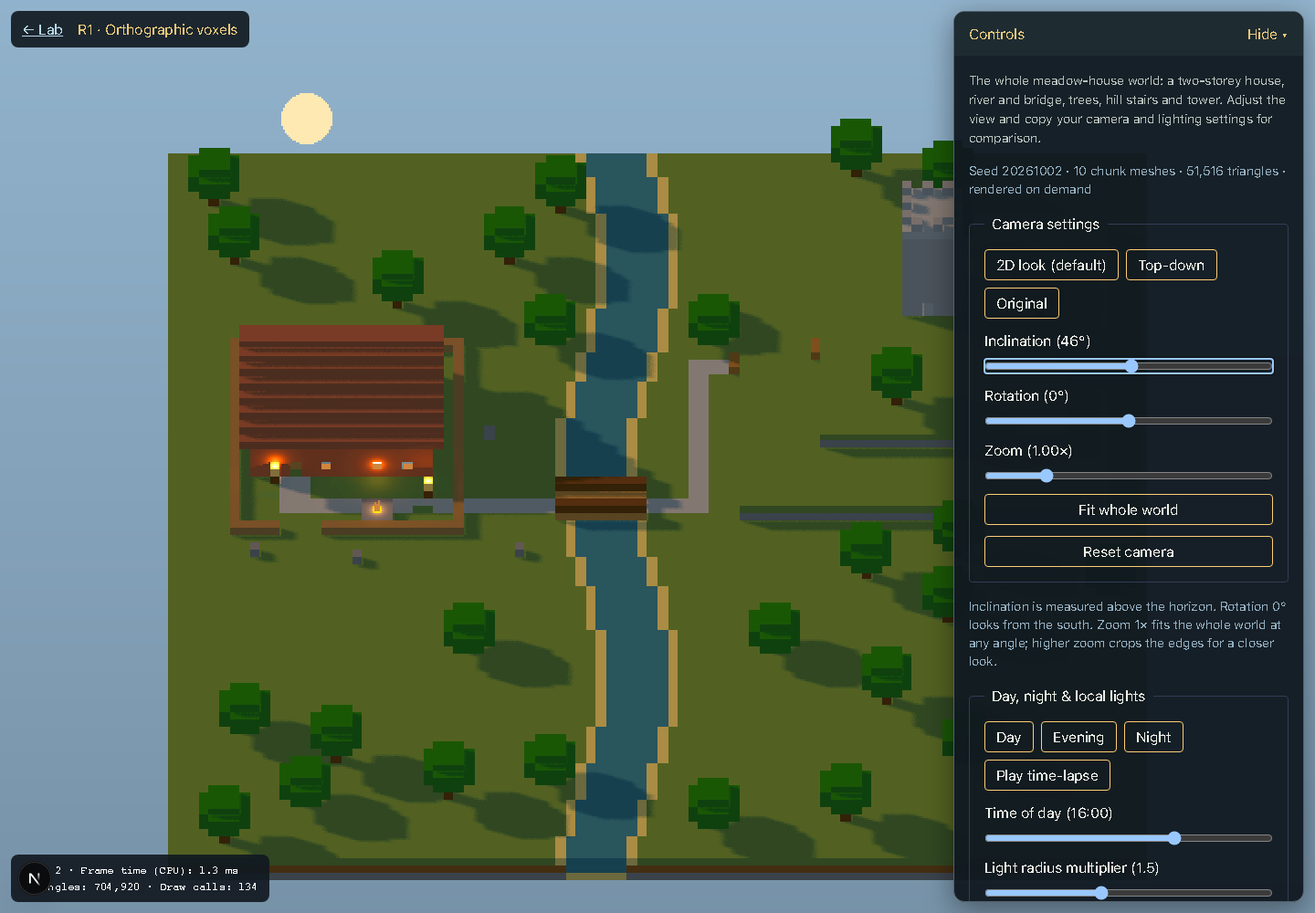
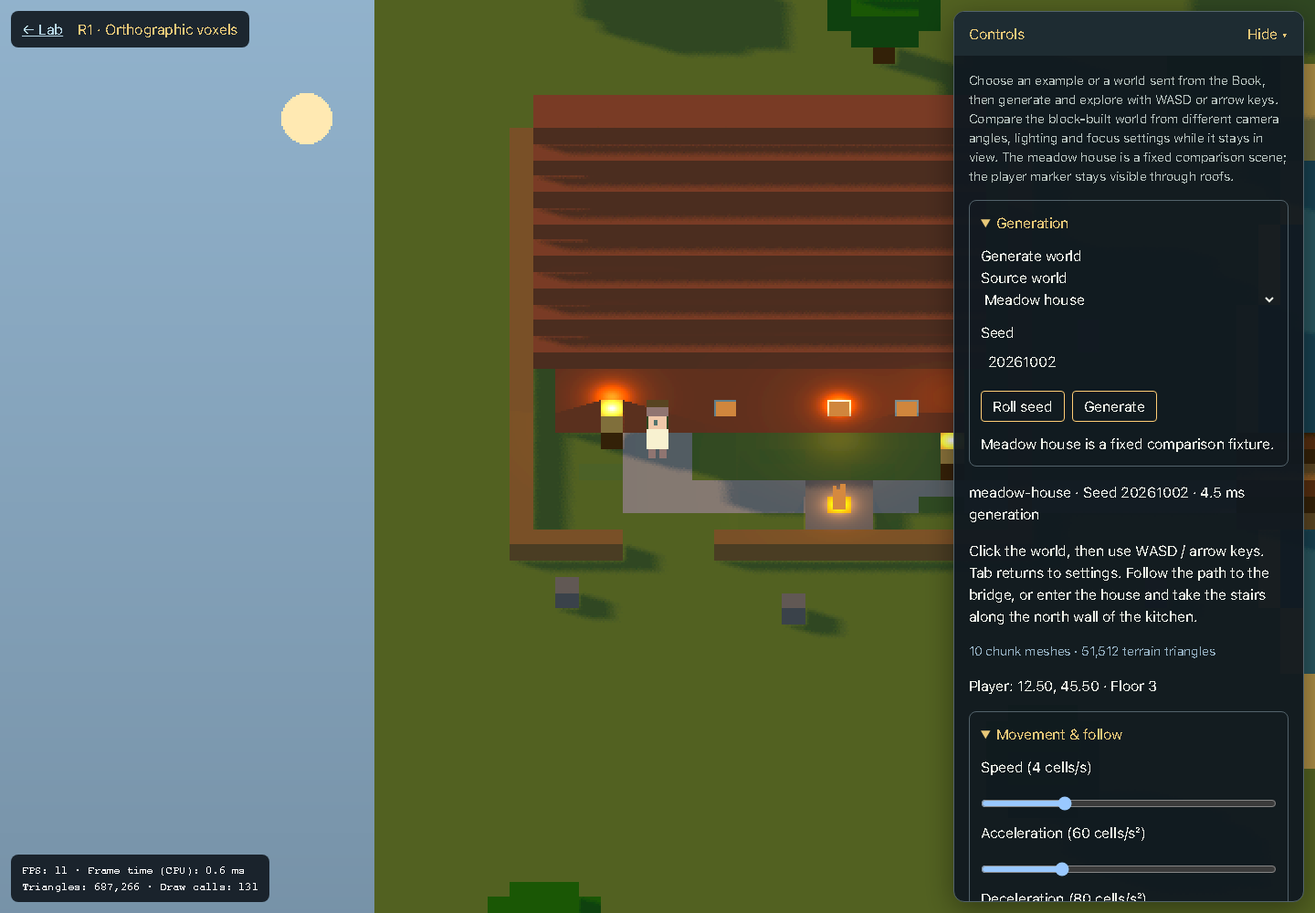
fix(lab): complete overlays across current renderer variants (evermore-1fo.23)
The overlay branch predated the default forest cottage renderer and later feedback requesting collapsible settings groups and plain-language introductions. Keep the forest cottage in the same viewport layout as generated R2 scenes, preserve the reference picture in its controls, and use shared actual-frame CPU diagnostics for both renderers. Native disclosure groups preserve settings and the mounted scene while scrolling or collapsing controls.

Clarify the introductions for movement, generation and image reconstruction, including the meaning of patches, ground anchors and cached vision heights. Add a repeatable headless browser check and refreshed desktop/mobile screenshots before and after panel scrolling. Browser checks cover panel limits, HUD separation, stable canvas mounts, slider extremes, keyboard movement and R1 time-lapse with controls hidden; image reconstruction reports zero FPS when idle. Package typecheck and lint pass; full formula gates follow before submission.

diff --git a/apps/www/app/lab/r1-voxel/voxel-experiment.tsx b/apps/www/app/lab/r1-voxel/voxel-experiment.tsx
@@ -2,7 +2,7 @@
 
 import { DEFAULT_MOVEMENT, createMovement, createMovementClock, stepMovement } from "@evermore/core";
 import { MEADOW_HOUSE_SEED, WORLD_EXAMPLES, generateWorld, deriveShadowWorld, findInfluenceOrigin, influenceAt } from "@evermore/world";
-import { LabViewport } from "../../../components/lab/lab-viewport";
+import { ControlGroup, LabViewport } from "../../../components/lab/lab-viewport";
 import { RenderStats, useRenderStats } from "../../../components/lab/render-stats";
 import { useEffect, useRef, useState } from "react";
 import { AmbientLight, Box3, Color, DirectionalLight, Group, Mesh, MeshLambertMaterial, OrthographicCamera, Scene, WebGLRenderer, WebGLRenderTarget, NearestFilter, DepthTexture, AlwaysDepth, ShaderMaterial, PlaneGeometry, PCFShadowMap, Vector3, CanvasTexture, Sprite, SpriteMaterial } from "three";
@@ -347,44 +347,39 @@ export default function VoxelExperiment() {
   const json = JSON.stringify({ experiment: "r1-voxel", world: worldName, shadow, heatmap, seed: worldSeed, camera: settings, look, lighting, movement, cameraFollow: follow }, null, 2);
   return (
     <LabViewport title="R1 · Orthographic voxels" description="Choose an example or a world sent from the Book, then generate and explore with WASD or arrow keys. Compare the block-built world from different camera angles, lighting and focus settings while it stays in view. The meadow house is a fixed comparison scene; the player marker stays visible through roofs." controls={<>
-        {ready && <GenerationPanel key={JSON.stringify(handoff)} initialIndex={worldIndex} initialSeed={worldSeed} handoff={handoff} onGenerate={(index, seed) => {
+        {ready && <ControlGroup title="Generation"><GenerationPanel key={JSON.stringify(handoff)} initialIndex={worldIndex} initialSeed={worldSeed} handoff={handoff} onGenerate={(index, seed) => {
           keys.current.clear();
           setSelectedWorld((previous) => ({ index, seed, revision: (previous?.revision ?? 0) + 1 }));
-        }} />}
+        }} /></ControlGroup>}
         <p aria-label="Active generation">{worldName} · Seed {worldSeed} · {generationMs.toFixed(1)} ms generation</p>
         <p id="voxel-controls">Click the world, then use WASD / arrow keys. Tab returns to settings. Follow the path to the bridge, or enter the house and take the stairs along the north wall of the kitchen.</p>
       <p className="text-sm text-mist">{stats.chunks} chunk meshes · {stats.triangles.toLocaleString()} terrain triangles</p>
         <p aria-label="Player position">Player: {playerPosition.x.toFixed(2)}, {playerPosition.y.toFixed(2)} · Floor {playerPosition.z}</p>
-        <fieldset className="min-w-0 grid gap-3 border border-dusk p-3">
-          <legend>Movement & follow</legend>
+        <ControlGroup title="Movement & follow">
           <MovementSettings value={movement} onChange={setMovement} />
           <label>Camera follow ({follow} /s)<input aria-label="Camera follow" className="w-full max-w-full" type="range" min={1} max={30} step={1} value={follow} onChange={(event) => setFollow(Number(event.target.value))} /></label>
           <button type="button" className="rounded border border-gold px-3 py-1" onClick={() => resetPlayer.current?.()}>Reset player</button>
-        </fieldset>
-        <fieldset className="min-w-0 grid gap-3 border border-dusk p-3">
-          <legend>Depth of field</legend>
+        </ControlGroup>
+        <ControlGroup title="Depth of field">
           <label><input type="checkbox" checked={look.depthOfField} onChange={(event) => setLook({ ...look, depthOfField: event.target.checked })} /> Depth of field</label>
           <label>Blur strength ({look.blurStrength} render pixels)<input aria-label="Blur strength" className="w-full max-w-full" type="range" min={0} max={6} step={1} value={look.blurStrength} onChange={(event) => setLook({ ...look, blurStrength: Number(event.target.value) })} /></label>
           <label>Focus range (±{look.focusRange} world cells)<input aria-label="Focus range" className="w-full max-w-full" type="range" min={0.5} max={30} step={0.5} value={look.focusRange} onChange={(event) => setLook({ ...look, focusRange: Number(event.target.value) })} /></label>
           <p>The sharp depth band follows the player. Nearer and farther terrain softens in whole render-pixel steps; try a wide view for a miniature effect. Top-down views separate heights rather than north and south.</p>
-        </fieldset>
-        <fieldset className="min-w-0 flex flex-wrap gap-4 border border-dusk p-3">
-          <legend>Firelight flicker</legend>
+        </ControlGroup>
+        <ControlGroup title="Firelight flicker">
           <label><input type="checkbox" checked={lighting.flicker} onChange={(event) => setLighting({ ...lighting, flicker: event.target.checked })} /> Flicker</label>
           <label>Strength ({lighting.flickerStrength.toFixed(2)})<input aria-label="Flicker strength" type="range" min={0} max={0.4} step={0.01} value={lighting.flickerStrength} onChange={(event) => setLighting({ ...lighting, flickerStrength: Number(event.target.value) })} /></label>
           <label>Speed ({lighting.flickerSpeed.toFixed(1)}×)<input aria-label="Flicker speed" type="range" min={0} max={6} step={0.1} value={lighting.flickerSpeed} onChange={(event) => setLighting({ ...lighting, flickerSpeed: Number(event.target.value) })} /></label>
           <span className="text-sm">Fire only · lanterns and windows stay steady</span>
-        </fieldset>
-        <fieldset className="min-w-0 flex flex-wrap items-center gap-4 border border-dusk p-3">
-          <legend>World & danger</legend>
+        </ControlGroup>
+        <ControlGroup title="World & danger">
           {([false, true] as const).map((value) => <button key={String(value)} type="button" className="rounded border border-gold px-3 py-1" aria-pressed={shadow === value} onClick={() => setShadow(value)}>{value ? "Shadow" : "Normal"}</button>)}
           <label><input type="checkbox" checked={heatmap} onChange={(event) => setHeatmap(event.target.checked)} /> Danger heatmap</label>
           <p className="text-sm">Blue: low danger · Red: high danger. Influence peaks at the first bed (or spawn), fading with horizontal distance.</p>
-        </fieldset>
+        </ControlGroup>
         {importError.length > 0 && <p role="alert">{importError}</p>}
         {error !== "" && <p role="alert">{error}</p>}
-        <fieldset className="min-w-0 flex flex-wrap gap-5 rounded border border-dusk p-4">
-          <legend className="px-2">Camera settings</legend>
+        <ControlGroup title="Camera settings">
           <div className="flex w-full flex-wrap gap-2" role="group" aria-label="Camera presets">
             {CAMERA_PRESETS.map((preset, index) => (
               <button key={preset.label} type="button"
@@ -406,10 +401,9 @@ export default function VoxelExperiment() {
           </label>
           <button className="rounded border border-gold px-3 py-1" type="button" onClick={() => setSettings({ ...settings, zoom: 1 })}>Wide view</button>
           <button className="rounded border border-gold px-3 py-1" type="button" onClick={() => setSettings(PLAYER_CAMERA)}>Reset camera</button>
-        </fieldset>
+        </ControlGroup>
         <p className="text-sm text-mist">Inclination is measured above the horizon. Rotation 0° looks from the south. Zoom 1× uses the world-sized frame around the player; higher zoom gives a closer look.</p>
-        <fieldset className="min-w-0 flex flex-wrap gap-5 rounded border border-dusk p-4">
-          <legend className="px-2">Day, night & local lights</legend>
+        <ControlGroup title="Day, night & local lights">
           <div className="flex w-full flex-wrap gap-2" role="group" aria-label="Time presets">
             {([["Day", 12], ["Evening", 18], ["Night", 0]] as const).map(([label, hour]) => (
               <button key={label} type="button" className="rounded border border-gold px-3 py-1" aria-pressed={lighting.hour === hour && !lighting.play} onClick={() => setLighting({ ...lighting, hour, play: false })}>{label}</button>
@@ -428,10 +422,9 @@ export default function VoxelExperiment() {
           ))}
           <label><input type="checkbox" checked={lighting.localLights} onChange={(event) => setLighting({ ...lighting, localLights: event.target.checked })} /> Local lights</label>
           <button type="button" className="rounded border border-gold px-3 py-1" onClick={() => setLighting(DEFAULT_LIGHTING)}>Reset lighting</button>
-        </fieldset>
+        </ControlGroup>
         <p className="text-sm text-mist">Sunrise at 06:00, sunset at 18:00. Sun and moon move in opposite arcs, changing shadow direction and length. At night, compare warm windows, the two lanterns and the garden fire against cool moonlight. The indoor hearth stays behind the roof in this exterior view.</p>
-        <fieldset className="min-w-0 flex flex-wrap gap-5 rounded border border-dusk p-4">
-          <legend className="px-2">Pixel look & lighting</legend>
+        <ControlGroup title="Pixel look & lighting">
           {([
             ["resolution", "Maximum render width", 320, 1280, 40],
             ["pixelSize", "Minimum pixel size", 1, 6, 1],
@@ -445,7 +438,7 @@ export default function VoxelExperiment() {
           <label><input type="checkbox" checked={look.shadows} onChange={(event) => setLook({ ...look, shadows: event.target.checked })} /> Cast shadows</label>
           <label><input type="checkbox" checked={look.palette} onChange={(event) => setLook({ ...look, palette: event.target.checked })} /> Tonal palette</label>
           <button type="button" className="rounded border border-gold px-3 py-1" onClick={() => setLook(DEFAULT_LOOK)}>Reset look</button>
-        </fieldset>
+        </ControlGroup>
         <p className="text-sm text-mist">The world renders to a low-resolution texture and scales up with nearest filtering. Maximum width and minimum pixel size work together; the finer default keeps roof and foliage detail visible. The optional palette reduces colour tones after lighting.</p>
         <details><summary>Settings JSON</summary>
           <textarea readOnly value={json} rows={12} aria-label="Settings JSON" className="mt-3 w-full rounded bg-black/30 p-3 font-mono text-sm" />

diff --git a/apps/www/app/lab/r2-tilemap/forest-cottage.tsx b/apps/www/app/lab/r2-tilemap/forest-cottage.tsx
@@ -6,6 +6,8 @@ import { FOREST_COTTAGE_ART as art, cottageOccludes, createForestCottageWorld } 
 import { useMovement } from '../../../components/lab/use-movement';
 import { movementFromKeys } from '../../../components/lab/keyboard';
 import { movementSprite } from '../../../components/lab/movement-sprite';
+import { ControlGroup, LabViewport } from '../../../components/lab/lab-viewport';
+import { RenderStats, useRenderStats } from '../../../components/lab/render-stats';
 import { movementFloor } from './tilemap-model';
 
 type ArtLayer = 'ground' | 'decoration' | 'objects' | 'facade' | 'overhead' | 'light';
@@ -13,6 +15,7 @@ const initialLayers: Record<ArtLayer, boolean> = { ground:true, decoration:true,
 const reference = '/moodboards/02-eigene-welt/images/it2-waldhuette-tag.jpg';
 
 export default function ForestCottage({ onSceneChange }: { onSceneChange: (scene: string) => void }) {
+  const { stats: performanceStats, recordFrame } = useRenderStats();
   const surface = useRef<HTMLDivElement>(null);
   const canvas = useRef<HTMLCanvasElement>(null);
   const keys = useMovement(surface);
@@ -23,7 +26,7 @@ export default function ForestCottage({ onSceneChange }: { onSceneChange: (scene
   const [layers, setLayers] = useState(initialLayers);
   const [reset, setReset] = useState(0);
   const [error, setError] = useState('');
-  const [stats, setStats] = useState({ fps:0, ms:0, x:21.5, y:16.5, faded:0 });
+  const [stats, setStats] = useState({ x:21.5, y:16.5, faded:0 });
   const [copied, setCopied] = useState('');
   const options = useRef({ night, grid, collision, fade, layers });
   useEffect(() => { options.current = { night, grid, collision, fade, layers }; }, [night,grid,collision,fade,layers]);
@@ -41,10 +44,11 @@ export default function ForestCottage({ onSceneChange }: { onSceneChange: (scene
       const world=createForestCottageWorld();
       const motion=createMovement({ x:world.spawn.x+0.5, y:world.spawn.y+0.5, z:world.spawn.z });
       const advance=createMovementClock();
-      let previous=performance.now(), sample=0, frames=0;
+      let previous=performance.now(), sample=0;
       ctx.imageSmoothingEnabled=false;
       function draw(now:number) {
         if(cancelled || !ctx) return;
+        const started = performance.now();
         const elapsed=(now-previous)/1000; previous=now;
         const dt=Math.min(elapsed,0.05);
         advance(dt,()=>stepMovement(motion,movementFromKeys(keys.current),DEFAULT_MOVEMENT,p=>movementFloor(world,p)));
@@ -91,8 +95,9 @@ export default function ForestCottage({ onSceneChange }: { onSceneChange: (scene
           for(let ty=0;ty<=384;ty+=16){ctx.moveTo(0,ty+0.5);ctx.lineTo(688,ty+0.5);}ctx.stroke();
         }
         if(surface.current) { surface.current.dataset.playerX=String(motion.x);surface.current.dataset.playerY=String(motion.y);surface.current.dataset.faded=String(faded); }
-        sample+=elapsed;frames++;
-        if(sample>=0.25) {setStats({fps:frames/sample,ms:sample/frames*1000,x:motion.x,y:motion.y,faded});sample=0;frames=0;}
+        recordFrame(performance.now() - started);
+        sample+=elapsed;
+        if(sample>=0.25) {setStats({x:motion.x,y:motion.y,faded});sample=0;}
         frame=requestAnimationFrame(draw);
       }
       frame=requestAnimationFrame(draw);
@@ -100,37 +105,25 @@ export default function ForestCottage({ onSceneChange }: { onSceneChange: (scene
     setError('');
     void start().catch(cause=>{if(!cancelled) setError(cause instanceof Error?cause.message:'The cottage could not load.');});
     return()=>{cancelled=true;cancelAnimationFrame(frame);};
-  },[keys,reset]);
+  },[keys,reset,recordFrame]);
 
   const settings=JSON.stringify({scene:'moodboard',night,grid,collision,fade,layers},null,2);
-  return <div className="grid gap-4">
-    <section aria-label="Forest cottage comparison" className="sticky top-2 z-10 rounded border border-dusk bg-night p-3">
-      <div className="mb-3 flex flex-wrap items-center gap-3 text-sm">
-        <label>Scene <select aria-label="Scene" value="moodboard" onChange={event=>onSceneChange(event.target.value)} className="rounded bg-night p-1"><option value="moodboard">Moodboard: Forest cottage</option><option value="generator">G1 generated world</option><option value="village">G3 library village</option><option value="meadow">Meadow house</option></select></label>
-        <output aria-label="Cottage diagnostics" className="font-mono text-xs text-mist">{stats.fps.toFixed(0)} FPS · {stats.ms.toFixed(1)} ms · ({stats.x.toFixed(1)}, {stats.y.toFixed(1)}) · {stats.faded} faded</output>
-      </div>
-      <div className="grid grid-cols-2 gap-3">
-        <figure><figcaption className="mb-1 text-xs text-mist">Moodboard · original</figcaption>
-          {/* The original reference must remain directly comparable at its native aspect ratio. */}
-          {/* eslint-disable-next-line @next/next/no-img-element */}
-          <img src={reference} alt="Forest cottage moodboard with a thatched roof, vegetable garden and river bridge" width={1376} height={768} className="w-full" />
-        </figure>
-        <figure><figcaption className="mb-1 text-xs text-mist">R2 · 43 × 24 tiles · WASD / arrows</figcaption>
-          <div ref={surface} tabIndex={0} role="application" aria-label="Forest cottage movement" className="focus:outline-2 focus:outline-gold">
-            <canvas ref={canvas} width={688} height={384} className="block w-full [image-rendering:pixelated]" />
-          </div>
-        </figure>
-      </div>
-      <fieldset aria-label="Cottage controls" className="mt-3 flex flex-wrap items-center gap-x-4 gap-y-2 text-xs">
-        <legend className="sr-only">Cottage controls</legend>
+  return <LabViewport title="R2 · Layered tilemap" description="Walk through a forest cottage built from small terrain tiles and separate roof and tree pictures. Click the scene and move with WASD or arrow keys; watch the roof and treetops fade above the character. Compare it with the original picture in the controls, then try night lighting or hide layers to see how it is put together. This scene is hand-built, so its hidden ground and cut-out edges are still approximate." controls={<>
+    <ControlGroup title="Scene & reference">
+      <label>Scene <select aria-label="Scene" value="moodboard" onChange={event=>onSceneChange(event.target.value)} className="rounded bg-night p-1"><option value="moodboard">Moodboard: Forest cottage</option><option value="generator">G1 generated world</option><option value="village">G3 library village</option><option value="meadow">Meadow house</option></select></label>
+      <figure><figcaption className="mb-1 text-xs text-mist">Moodboard · original</figcaption>
+        {/* eslint-disable-next-line @next/next/no-img-element */}
+        <img src={reference} alt="Forest cottage moodboard with a thatched roof, vegetable garden and river bridge" width={1376} height={768} className="w-full" />
+      </figure>
+    </ControlGroup>
+    <ControlGroup title="Cottage controls">
         <label className="flex items-center gap-2">Day / night <input aria-label="Night amount" type="range" min={0} max={1} step={0.05} value={night} onChange={event=>setNight(Number(event.target.value))} className="w-24" /></label>
         <label><input type="checkbox" checked={grid} onChange={event=>setGrid(event.target.checked)} /> Tile grid</label>
         <label><input type="checkbox" checked={collision} onChange={event=>setCollision(event.target.checked)} /> Collision</label>
         <label><input type="checkbox" checked={fade} onChange={event=>setFade(event.target.checked)} /> Fade occluders</label>
         {(Object.keys(layers) as ArtLayer[]).map(layer=><label key={layer}><input type="checkbox" checked={layers[layer]} onChange={event=>setLayers({...layers,[layer]:event.target.checked})} /> {layer}</label>)}
         <button onClick={()=>setReset(value=>value+1)} className="rounded border border-gold px-2 py-1">Reset player</button>
-      </fieldset>
-    </section>
+    </ControlGroup>
     {error !== '' && <p role="alert">{error}</p>}
     <p className="text-sm text-mist">Walk north through the door and south across the bridge. The roof and tree crowns fade over your character; only trunks, walls, the garden and water block movement. Toggle layers to see the terrain beneath them. The evening slider adds warm lantern light to the extracted daytime art.</p>
     <p className="text-sm text-mist">{art.ground.length} ground cells reuse {art.tileCount} extracted 16 px tiles; {art.sprites.length} separate sprites carry the roof, trees, facade and details. This is an authored reconstruction with collision data, not a generated world. Mask edges and hidden ground are approximate; extracting reusable terrain borders is a next step. No model calls were needed.</p>
@@ -138,5 +131,11 @@ export default function ForestCottage({ onSceneChange }: { onSceneChange: (scene
       if(typeof navigator.clipboard === 'undefined'){setCopied('Select and copy the JSON above.');return;}
       void navigator.clipboard.writeText(settings).then(()=>setCopied('Copied settings.'),()=>setCopied('Select and copy the JSON above.'));
     }} className="rounded border border-gold px-2 py-1">Copy settings</button><p role="status">{copied}</p></details>
-  </div>;
+  </>}>
+    <div ref={surface} tabIndex={0} role="application" aria-label="Forest cottage movement" className="h-full w-full focus:outline-2 focus:outline-gold">
+      <canvas ref={canvas} width={688} height={384} className="block h-full w-full [image-rendering:pixelated]" />
+    </div>
+    <output aria-label="Cottage diagnostics" className="pointer-events-none absolute left-3 top-18 rounded bg-black/80 px-3 py-2 font-mono text-xs text-white">Position: ({stats.x.toFixed(1)}, {stats.y.toFixed(1)}) · {stats.faded} faded</output>
+    <RenderStats stats={performanceStats} />
+  </LabViewport>;
 }

diff --git a/apps/www/app/lab/r2-tilemap/tilemap-experiment.tsx b/apps/www/app/lab/r2-tilemap/tilemap-experiment.tsx
@@ -6,7 +6,7 @@ import { movementSprite } from "../../../components/lab/movement-sprite";
 import { WORLD_EXAMPLES, generateWorld, createMeadowHouseWorld, getMaterial, MEADOW_HOUSE_LIGHTS, generateObjectVillage, DEFAULT_VILLAGE } from "@evermore/world";
 import { Application, Container, Graphics, Assets, Sprite, type Texture } from "pixi.js";
 import { UPDATE_PRIORITY } from "pixi.js";
-import { LabViewport } from "../../../components/lab/lab-viewport";
+import { ControlGroup, LabViewport } from "../../../components/lab/lab-viewport";
 import { RenderStats, useRenderStats } from "../../../components/lab/render-stats";
 import { useEffect, useRef, useState } from "react";
 import { DebugOverlay, type DebugSnapshot } from "../../../components/lab/debug-overlay";
@@ -234,8 +234,7 @@ function GeneratedTilemap({ sceneMode, setSceneMode, handoffState }: {
   const settings = JSON.stringify({ scene: sceneMode, seed: imported?.seed ?? seed, villageOptions, movement, cutaway, fade, layers, footprints }, null, 2);
   return (
     <LabViewport title="R2 · Layered tilemap" description="Explore a world made from small terrain tiles and separate objects. Move with WASD or arrow keys and watch roofs and tree crowns fade above the player. Choose a generated world, a library village or the meadow house to compare layouts and layers." controls={<>
-        <fieldset className="grid gap-3 rounded border border-dusk p-3">
-          <legend>World controls</legend>
+        <ControlGroup title="World controls">
           <label className="block">Scene<select aria-label="Scene" value={sceneMode} onChange={event => setSceneMode(event.target.value)} className="block w-full bg-night p-1"><option value="generator">G1 generated world</option><option value="moodboard">Moodboard: Forest cottage</option><option value="village">G3 library village</option><option value="meadow">Meadow house</option></select></label>
           {sceneMode === "generator" && <>
             <label className="mt-2 block">Specification<select aria-label="World specification" value={example} onChange={event => setExample(event.target.value)} className="block w-full bg-night p-1">
@@ -255,18 +254,17 @@ function GeneratedTilemap({ sceneMode, setSceneMode, handoffState }: {
           </>}
           <label className="mt-2 block"><input type="checkbox" checked={fade} onChange={event => setFade(event.target.checked)} /> Fade occluders</label>
           <button type="button" onClick={() => setReset(reset + 1)} className="mt-2 rounded border border-gold px-2 py-1">Reset player</button>
-        </fieldset>
+        </ControlGroup>
       {importError.length > 0 && <p role="alert">{importError}</p>}
       {error !== "" && <p role="alert">{error}</p>}
       <p aria-live="polite">Location: {room} · {generation}</p>
-      <fieldset className="flex flex-wrap gap-5 rounded border border-dusk p-4">
-        <legend className="px-2">Renderer settings</legend>
+      <ControlGroup title="Renderer settings">
         <MovementSettings value={movement} onChange={setMovement} />
         <label><input type="checkbox" checked={cutaway} onChange={(event) => setCutaway(event.target.checked)} /> Building cutaway</label>
         <label><input type="checkbox" checked={fade} onChange={(event) => setFade(event.target.checked)} /> Fade occluders</label>
         {(["ground", "objects", "overhead"] as const).map((layer) => <label key={layer}><input type="checkbox" checked={layers[layer]} onChange={(event) => setLayers({ ...layers, [layer]: event.target.checked })} /> {layer}</label>)}
         <button type="button" onClick={() => setReset(reset + 1)} className="rounded border border-gold px-3 py-1">Reset to spawn</button>
-      </fieldset>
+      </ControlGroup>
       {imported && <details><summary>Generated world specification · {imported.specification.name}</summary>
         <p className="mt-2 text-sm text-mist">{imported.specification.mood} · {imported.specification.climate} · {imported.specification.timeOfDay}. Terrain, water and buildings come from G1; palette and mood remain metadata in this renderer.</p>
         <textarea readOnly value={JSON.stringify(imported, null, 2)} rows={12} aria-label="Generated world specification JSON" className="mt-3 w-full rounded bg-black/30 p-3 font-mono text-sm" />

diff --git a/apps/www/app/lab/g1-generator/generator-experiment.tsx b/apps/www/app/lab/g1-generator/generator-experiment.tsx
@@ -1,6 +1,6 @@
 "use client";
 import { generateWorld, getMaterial, WORLD_EXAMPLES, type World, type WorldSpecification } from "@evermore/world";
-import { LabViewport } from "../../../components/lab/lab-viewport";
+import { ControlGroup, LabViewport } from "../../../components/lab/lab-viewport";
 import { useEffect, useRef, useState } from "react";
 import { useWorldHandoff } from "../../../components/lab/use-world-handoff";
 import { parseWorldHandoff, saveWorldHandoff } from "../../../lib/world-handoff";
@@ -55,16 +55,15 @@ export default function GeneratorExperiment() {
     context.lineWidth = 2;
     context.strokeRect(world.spawn.x * cell, world.spawn.y * cell, cell, cell);
   }, [result, slice]);
-  return <LabViewport title="G1 · World generator" description="Choose a semantic specification and seed. The map shows the highest cell in each column; inspect lower floors with the slice control." controls={<>
-    <fieldset className="flex flex-wrap gap-5 rounded border border-dusk p-4">
-      <legend>Generation settings</legend>
+  return <LabViewport title="G1 · World generator" description="Turn a world description into a repeatable map by choosing an example and a seed. Colours show different ground and building materials, and the white outline marks where the player starts. Lower the visible layer to look beneath roofs or edit the world description below to compare layouts." controls={<>
+    <ControlGroup title="Generation settings">
       <label>Example <select className="bg-black p-2" value={example === null && (custom || handoff) ? "custom" : example ?? 0} onChange={e => { setDraft(null); setValidation(""); setExample(e.target.value === "custom" ? null : Number(e.target.value)); }}>
         {(custom || handoff) && <option value="custom">Imported specification</option>}
         {WORLD_EXAMPLES.map((s, i) => <option key={s.name} value={i}>{s.name}</option>)}
       </select></label>
       <label>Seed <input className="bg-black p-2" value={seed} onChange={e => setSeed(e.target.value)} /></label>
       <label>Highest visible layer ({slice}) <input type="range" min={0} max={spec.size.height - 1} value={Math.min(slice, spec.size.height - 1)} onChange={e => setSlice(Number(e.target.value))} /></label>
-    </fieldset>
+    </ControlGroup>
     <p role="status">{importError}</p>
     <p role="status">{error !== "" ? error : (result ? `${result.milliseconds.toFixed(1)} ms · ${result.world.structures.length} structures · spawn ${result.world.spawn.x}/${result.world.spawn.y}/${result.world.spawn.z}` : "Generating…")}</p>
     <p className="text-mist">{spec.mood} · {spec.climate} · {spec.timeOfDay}. This diagnostic map uses material colours; mood, palette and daylight are metadata for future renderer integration.</p>

diff --git a/apps/www/app/lab/controls/controls-experiment.tsx b/apps/www/app/lab/controls/controls-experiment.tsx
@@ -2,7 +2,7 @@
 
 import { RenderStats, useRenderStats } from "../../../components/lab/render-stats";
 
-import { LabViewport } from "../../../components/lab/lab-viewport";
+import { ControlGroup, LabViewport } from "../../../components/lab/lab-viewport";
 
 import { DEFAULT_MOVEMENT, createMovement, createMovementClock, stepMovement } from "@evermore/core";
 import { MovementSettings } from "../../../components/lab/movement-settings";
@@ -71,9 +71,8 @@ export default function ControlsExperiment() {
 
   const settings = JSON.stringify({ seed, movement }, null, 2);
   return (
-    <LabViewport title="Controls & diagnostics" description="Focus the canvas, then move with WASD or the arrow keys. This is a controls sandbox, not a world renderer." controls={<>
-      <fieldset className="grid gap-4 rounded border border-dusk p-4">
-        <legend className="px-2">Settings</legend>
+    <LabViewport title="Controls & diagnostics" description="Move the small character with WASD or the arrow keys after clicking the scene. Change speed, acceleration and corner handling to compare how movement feels. The plain background helps you focus on controls; the position and performance readings show what changes." controls={<>
+      <ControlGroup title="Settings">
         <MovementSettings value={movement} onChange={setMovement} />
         <label className="flex flex-wrap items-center gap-3">Seed
           <input className="rounded border border-dusk bg-black/30 px-2 py-1" value={seed} onChange={(event) => setSeed(event.target.value)} />
@@ -87,7 +86,7 @@ export default function ControlsExperiment() {
           void navigator.clipboard.writeText(settings).then(() => setCopyStatus("Copied settings."), () => setCopyStatus("Select and copy the JSON above."));
         }}>Copy settings</button>
         <p role="status" className="text-sm text-mist">{copyStatus}</p>
-      </fieldset>
+      </ControlGroup>
     </>}>
       <div className="relative h-full">
         <canvas ref={canvas} width={640} height={384} tabIndex={0}

diff --git a/apps/www/components/lab/lab-viewport.module.css b/apps/www/components/lab/lab-viewport.module.css
@@ -76,6 +76,7 @@
 
 .toggle:focus-visible { outline: 2px solid #e8c878; outline-offset: -3px; }
 .content {
+  overflow-wrap: anywhere;
   min-height: 0;
   overflow-y: auto;
   overscroll-behavior: contain;
@@ -86,6 +87,13 @@
 .content[hidden] { display: none; }
 .description { font-size: 0.875rem; color: #b5c1bd; }
 .content fieldset { min-width: 0; flex-direction: column; gap: 0.75rem; }
+.group { border: 1px solid #53636b; border-radius: 0.5rem; }
+.group > summary { padding: 0.75rem; cursor: pointer; color: #e8c878; }
+.group > summary:focus-visible { outline: 2px solid #e8c878; outline-offset: -3px; }
+.group > fieldset { display: grid; gap: 0.75rem; padding: 0 0.75rem 0.75rem; }
+.group fieldset fieldset { border: 0; padding: 0; }
+.content details { min-width: 0; }
+.content p { margin: 0; }
 .content label { max-width: 100%; }
 .content input:not([type="checkbox"]), .content select, .content textarea { max-width: 100%; }
 .content input[type="range"] { display: block; width: 100%; margin: 0.5rem 0 0; }

diff --git a/apps/www/app/lab/image-to-voxel/page.tsx b/apps/www/app/lab/image-to-voxel/page.tsx
@@ -5,7 +5,7 @@ export default function ImageToVoxelPage() {
   return <main className="mx-auto max-w-[1600px] px-4 py-6">
     <Link href="/lab" className="text-ice underline">Back to lab</Link>
     <h1 className="my-4 text-3xl text-gold">Image → voxel comparison</h1>
-    <p className="mb-5 text-mist">Compare image-space relief, hand masks and ground projection with cached Vision-LLM heights on the same cabin and harbour grids.</p>
+    <p className="mb-5 text-mist">Can a flat picture become a convincing world made of blocks? Compare the original cabin or harbour picture with the 3D reconstruction, then change the height and turn the view to spot mistakes. Patches are marked parts of the picture, such as a roof; ground anchors mark where those parts touch the ground. The cached Vision-LLM option uses height guesses from an AI that reads pictures, so you can compare those guesses with image brightness and your own corrections.</p>
     <ImageToVoxelClient />
   </main>;
 }

diff --git a/apps/www/components/lab/lab-viewport.tsx b/apps/www/components/lab/lab-viewport.tsx
@@ -33,3 +33,11 @@ export function LabViewport({ title, description, children, controls }: {
     </main>
   );
 }
+
+/** Native disclosure keeps control values and renderer state intact when collapsed. */
+export function ControlGroup({ title, children }: { title: string; children: ReactNode }) {
+  return <details className={styles.group} open>
+    <summary>{title}</summary>
+    <fieldset><legend className="sr-only">{title}</legend>{children}</fieldset>
+  </details>;
+}

diff --git a/apps/www/components/lab/README.md b/apps/www/components/lab/README.md
@@ -6,7 +6,8 @@ can use the same registry. `planned` entries are shown without a link.
 
 Viewport experiments use `LabViewport` for the title, a full-screen preview and
 a collapsible controls overlay (right panel on desktop, 30% bottom sheet on
-mobile). The preview remains mounted when the panel is collapsed. A small client component
+mobile). Use `ControlGroup` for native, keyboard-accessible collapsible settings
+groups; hiding a group preserves its values. The preview remains mounted when the panel is collapsed. A small client component
 loads the actual renderer with `next/dynamic` and `ssr: false` – see
 `app/lab/controls/controls-client.tsx`. The lab layout sets `noindex, nofollow`
 for all subpages.
@@ -28,3 +29,9 @@ time. On-demand renderers show zero FPS while idle. Three.js renderers also
 provide triangles and draw calls; reset renderer.info once per complete frame
 so multipass rendering includes shadows and the screen pass. `RenderStats`
 keeps these measurements visible outside the scrolling controls.
+
+With the worktree dev server running, use
+`node scripts/check-lab-overlays.mjs http://127.0.0.1:<BASE_PORT>` from the root
+to check desktop/mobile bounds, overlay scrolling, disclosure continuity,
+slider extremes, keyboard movement and time-lapse. The headless check refreshes
+the `overlay-*` screenshots in `docs/lab/screenshots`.
